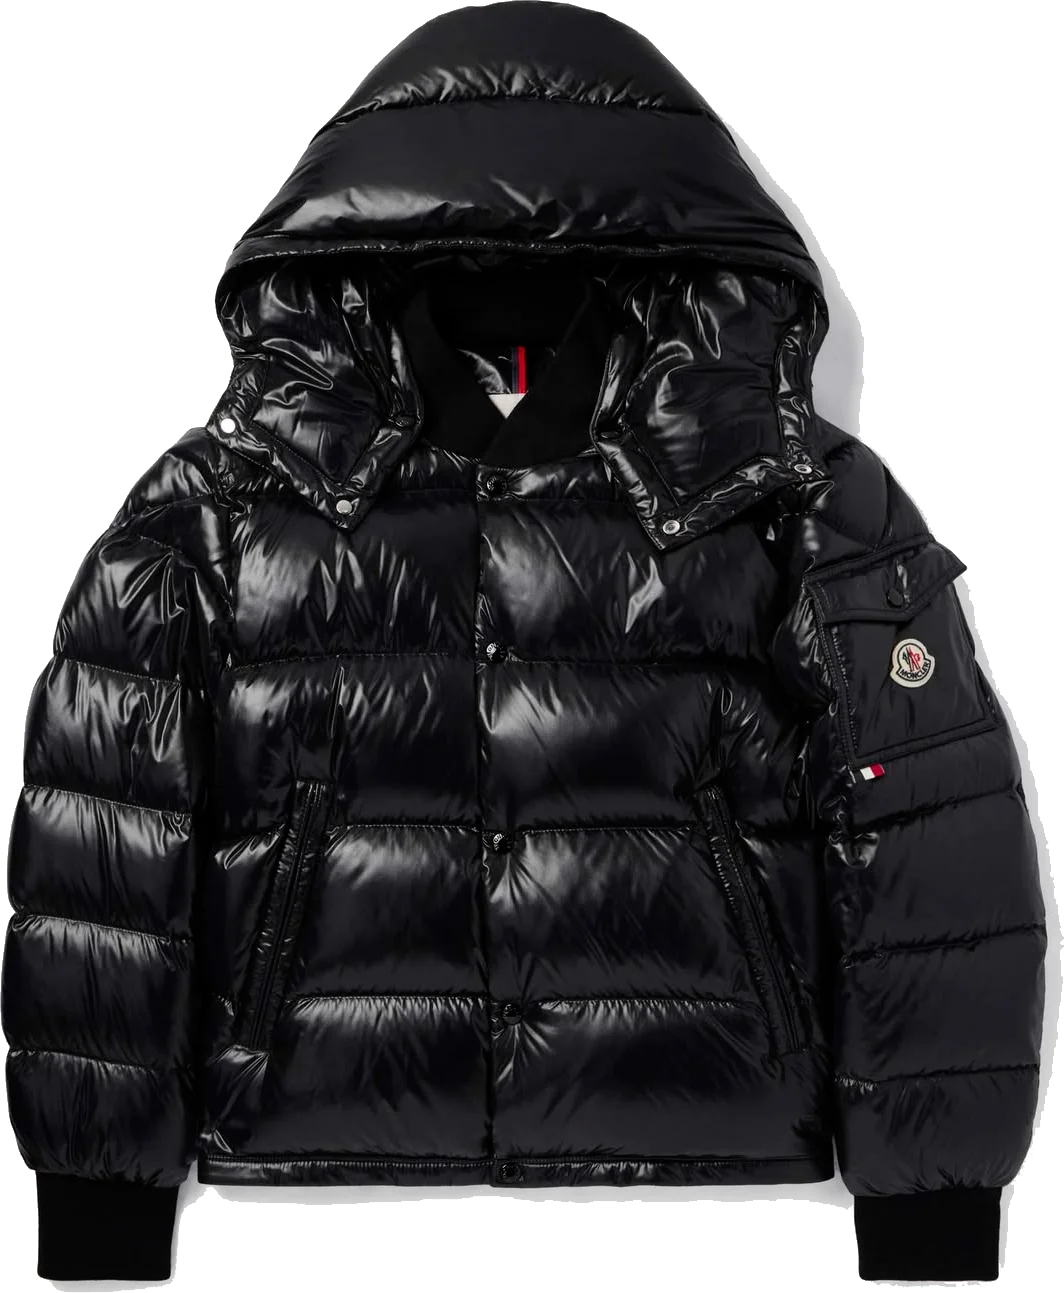
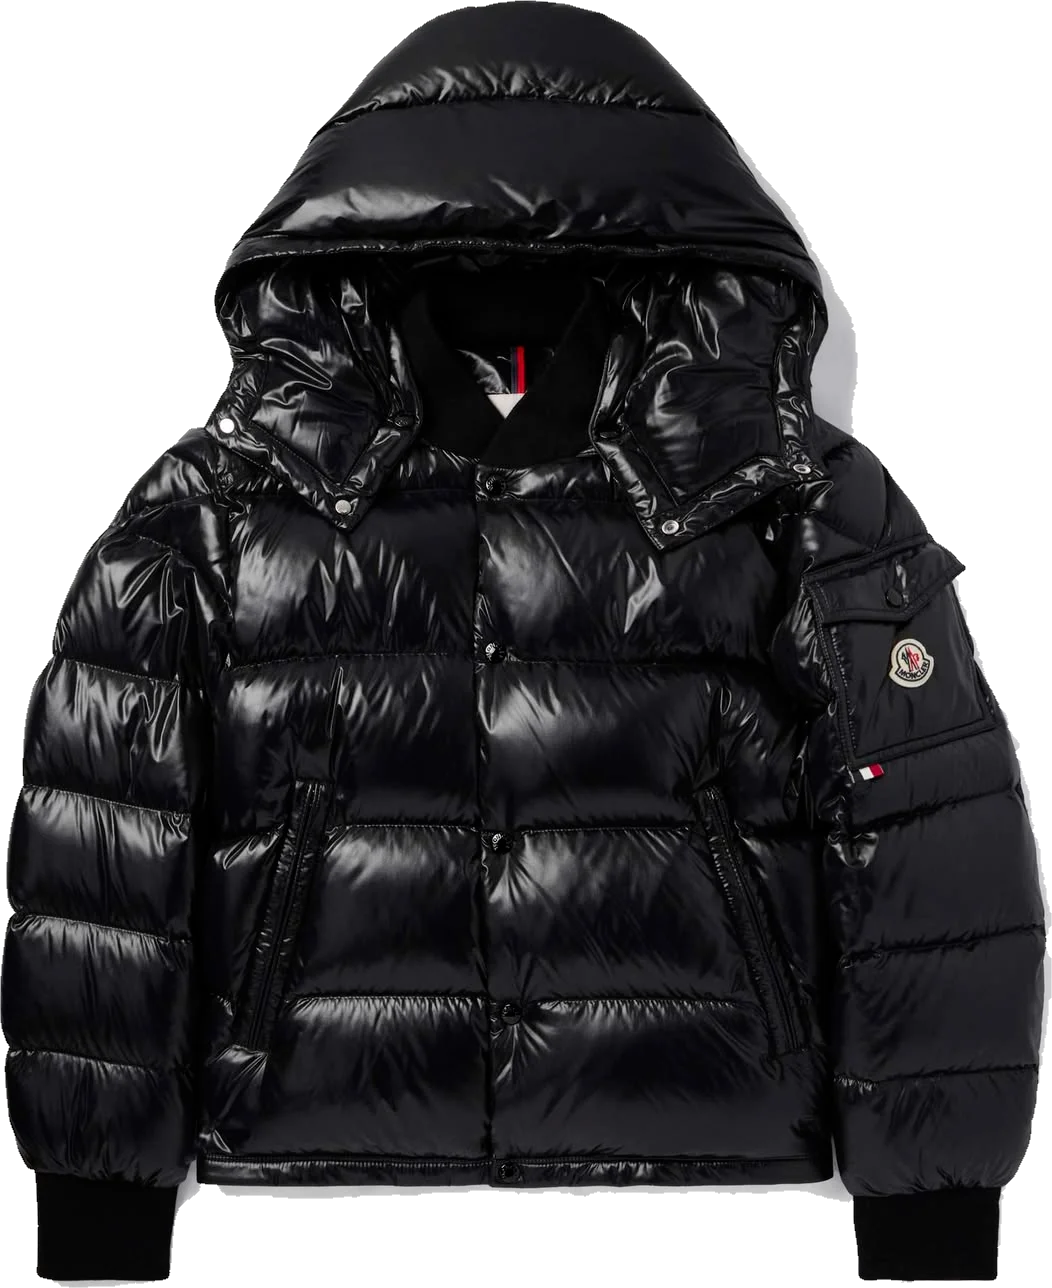
Demo photos: no halo, no edge line
- product photos re-cut: photo border line cropped, light fringe and trapped background (drawcord loops) removed
- product photos no longer get the white `cutout` glow, which showed as a halo in dark mode
- demo seed: updated photo sizes

diff --git a/apps/api/prisma/demo-catalog.ts b/apps/api/prisma/demo-catalog.ts
@@ -34,14 +34,14 @@ const teeChart: SizeChartInput = {
 
 /** Demo photos (background cut out, transparent WebP) shipped in apps/web/public/demo and apps/mini-app/public/demo. One photo per product. */
 const PHOTOS = {
-  'puffer-black.webp': { alt: 'Black down puffer jacket', width: 888, height: 981 },
-  'puffer-gloss.webp': { alt: 'Black ripstop puffer jacket', width: 709, height: 739 },
-  'puffer-shine.webp': { alt: 'Glossy black puffer jacket', width: 1064, height: 1293 },
-  'puffer-pink-hood.webp': { alt: 'Glossy black puffer with pink-lined hood', width: 916, height: 1045 },
-  'puffer-fur.webp': { alt: 'Glossy black puffer with fur-trimmed hood', width: 712, height: 772 },
-  'track-jacket.webp': { alt: 'Brown track jacket', width: 709, height: 608 },
-  'hoodie.webp': { alt: 'Washed two-tone hoodie', width: 735, height: 912 },
-  'tee-black.webp': { alt: 'Black tee with white piping', width: 620, height: 638 },
+  'puffer-black.webp': { alt: 'Black down puffer jacket', width: 886, height: 979 },
+  'puffer-gloss.webp': { alt: 'Black ripstop puffer jacket', width: 707, height: 737 },
+  'puffer-shine.webp': { alt: 'Glossy black puffer jacket', width: 1052, height: 1288 },
+  'puffer-pink-hood.webp': { alt: 'Glossy black puffer with pink-lined hood', width: 907, height: 1038 },
+  'puffer-fur.webp': { alt: 'Glossy black puffer with fur-trimmed hood', width: 710, height: 770 },
+  'track-jacket.webp': { alt: 'Brown track jacket', width: 705, height: 605 },
+  'hoodie.webp': { alt: 'Washed two-tone hoodie', width: 723, height: 558 },
+  'tee-black.webp': { alt: 'Black tee with white piping', width: 614, height: 631 },
   // Street-style shots for the "Follow along" block (full photos, not cut out).
   'street-1.webp': { alt: 'Grey puffer on a city crosswalk', width: 536, height: 892 },
   'street-2.webp': { alt: 'Black puffer over a grey hoodie', width: 736, height: 920 },

diff --git a/packages/ui/src/storefront/media.tsx b/packages/ui/src/storefront/media.tsx
@@ -20,8 +20,8 @@ export function ProductImage({
         src={media.src}
         alt={media.alt}
         loading={priority ? 'eager' : 'lazy'}
-        // Square box so cut-out photos of any shape line up in grids.
-        className={cn('cutout aspect-square w-full object-contain', className)}
+        // Square box so cut-out photos of any shape line up in grids. No `cutout` glow: on a photo it reads as a white halo in dark mode.
+        className={cn('aspect-square w-full object-contain', className)}
       />
     );
   }
